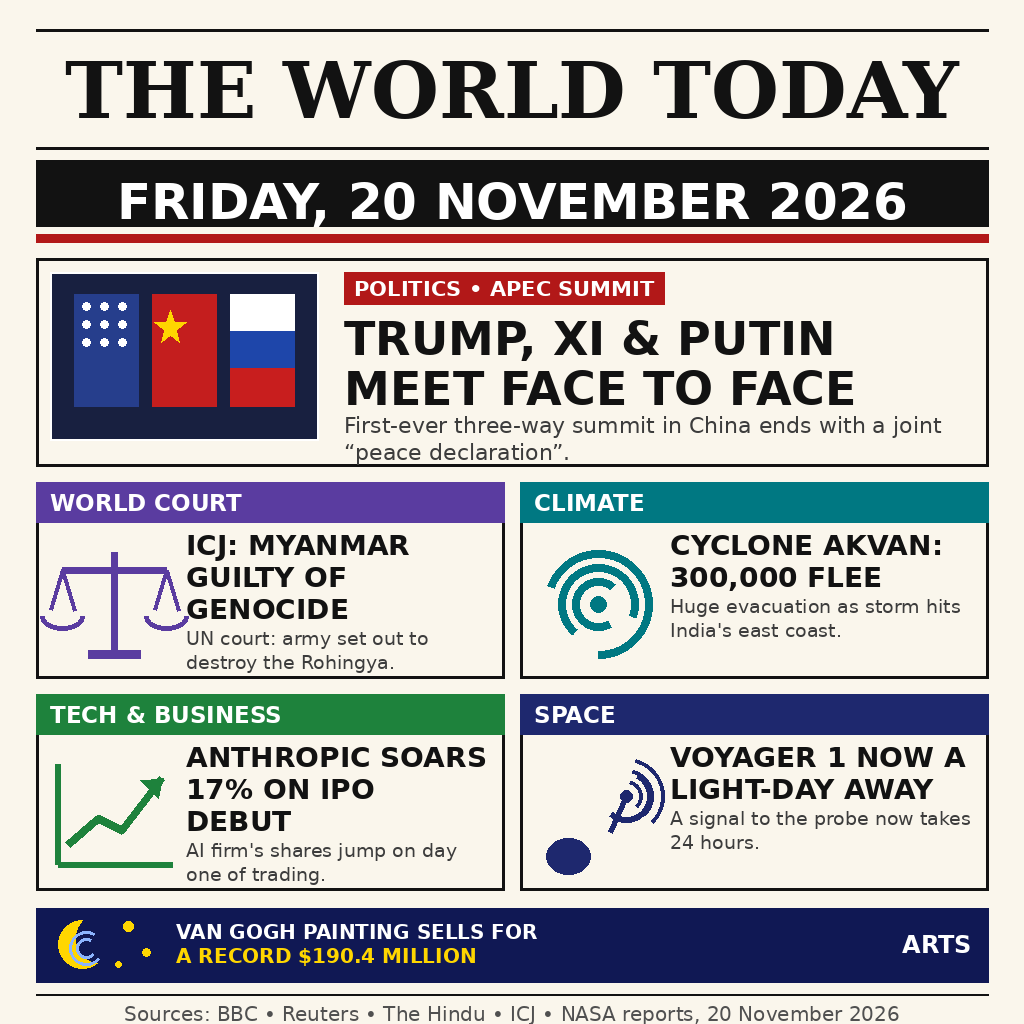
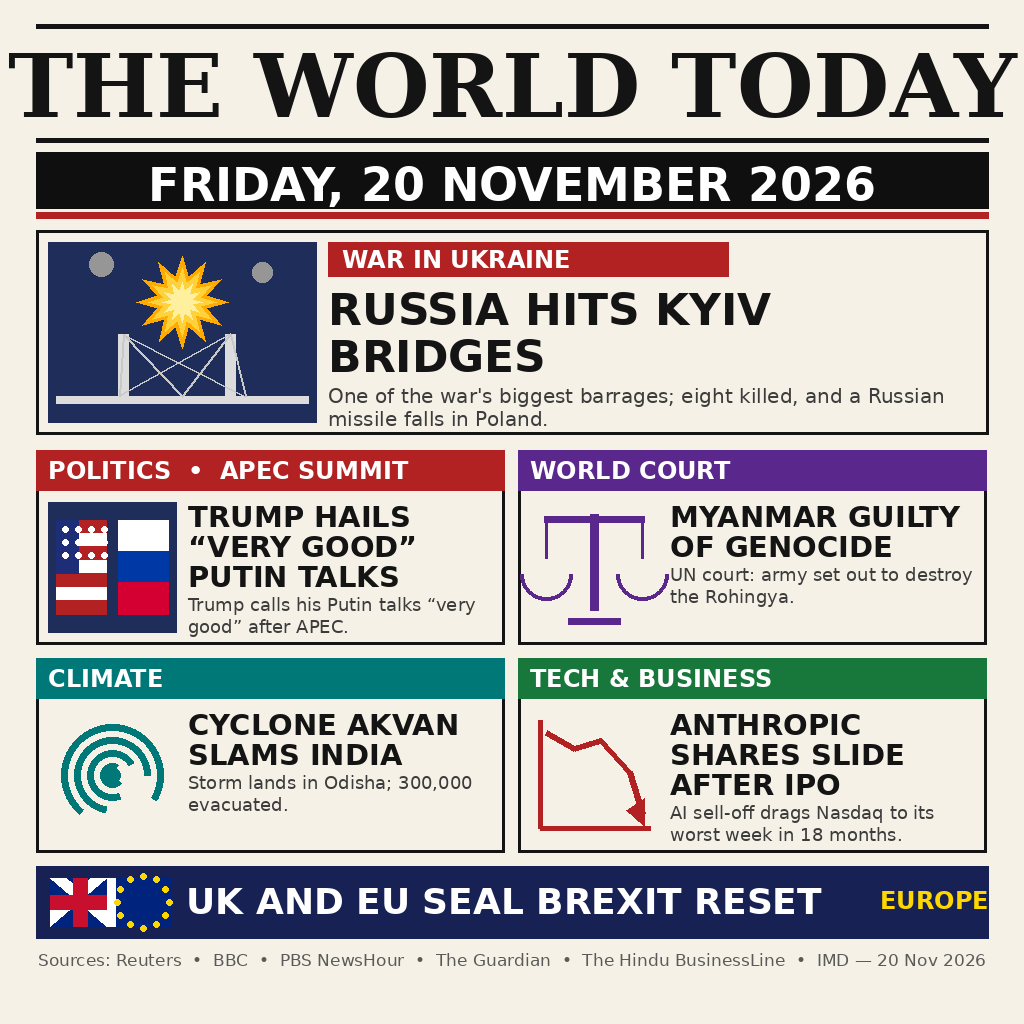
Final entry: six verified 20 Nov 2026 stories, image size/dimension guard in main.py

diff --git a/main.py b/main.py
@@ -34,6 +34,11 @@ def png_dimensions(path):
     return width, height
 
 
+MAX_BYTES = 1024 * 1024  # bounty limit: entry.png must be at most 1 MiB
+EXPECTED_WIDTH = 1024
+EXPECTED_HEIGHT = 1024
+
+
 def main():
     os.makedirs(DST_DIR, exist_ok=True)
     shutil.copyfile(SRC, DST)
@@ -43,6 +48,16 @@ def main():
         raise SystemExit("copy verification failed: hashes differ")
     size = os.path.getsize(DST)
     width, height = png_dimensions(DST)
+    if size > MAX_BYTES:
+        raise SystemExit(
+            "entry.png too large: {} bytes exceeds 1 MiB limit".format(size)
+        )
+    if (width, height) != (EXPECTED_WIDTH, EXPECTED_HEIGHT):
+        raise SystemExit(
+            "entry.png has wrong dimensions: {}x{} px, expected 1024x1024".format(
+                width, height
+            )
+        )
     print(
         "entry.png: {} bytes, {}x{} px, sha256 verified ({})".format(
             size, width, height, dst_hash[:16]
